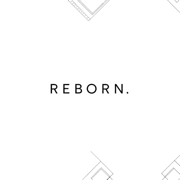
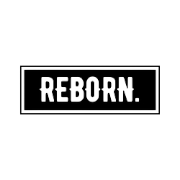
feat: 新しいアプリアイコンを設定
- 180x180, 192x192, 512x512の3サイズを生成
- manifest.jsonに全サイズのアイコンを登録
- notifications.htmlにもアイコンリンクを追加
- ソース: REBORN_180×180px-Photoroom.png

diff --git a/docs/notifications.html b/docs/notifications.html
@@ -7,6 +7,11 @@
   <meta name="apple-mobile-web-app-status-bar-style" content="black-translucent">
   <title>通知 - REBORN</title>
 
+  <!-- PWA Icons -->
+  <link rel="apple-touch-icon" href="icon-180.png">
+  <link rel="icon" type="image/png" sizes="192x192" href="icon-192.png">
+  <link rel="icon" type="image/png" sizes="512x512" href="icon-512.png">
+
   <style>
     * {
       margin: 0;
